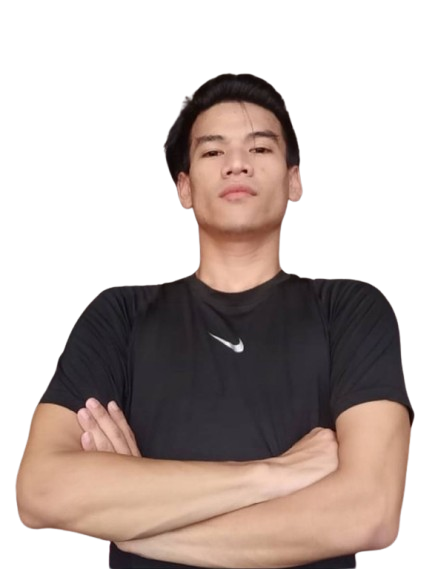
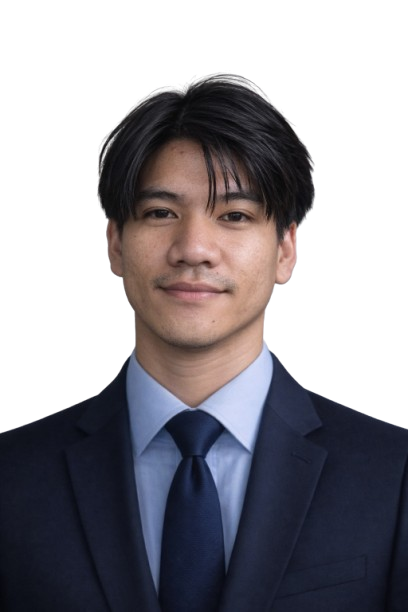
image update

diff --git a/index.html b/index.html
@@ -43,6 +43,61 @@
       name="twitter:image"
       content="https://alsharieff.github.io/portfolio/portfolio-img.jpg"
     />
+
+    <script type="application/ld+json">
+      {
+        "@context": "https://schema.org",
+        "@type": "Person",
+        "name": "Alsharieff Kallun",
+        "url": "https://alsharieff.github.io/portfolio/",
+        "image": "https://alsharieff.github.io/portfolio/portfolio-img.jpg",
+        "jobTitle": "Frontend Developer & SEO Specialist",
+        "description": "SEO specialist portfolio showcasing expertise in website optimization, keyword strategy, and high-performance, search-friendly sites.",
+        "sameAs": [
+          "https://www.linkedin.com/in/al-sharieff-kallun-09b829142?utm_source=share&utm_campaign=share_via&utm_content=profile&utm_medium=ios_app",
+          "https://github.com/alsharieff",
+          "https://www.facebook.com/share/1Ahgb1wdZu/?mibextid=wwXIfr"
+        ],
+        "knowsAbout": [
+          "SEO On-page",
+          "SEO Off-page",
+          "Technical SEO",
+          "HTML",
+          "CSS",
+          "Tailwind CSS",
+          "Bootstrap",
+          "JavaScript",
+          "Link Building",
+          "Ahrefs",
+          "Google Search Console"
+        ],
+        "worksFor": {
+          "@type": "Organization",
+          "name": "Self-employed / Freelance",
+          "url": "https://alsharieff.github.io/portfolio/"
+        },
+        "mainEntityOfPage": {
+          "@type": "WebPage",
+          "@id": "https://alsharieff.github.io/portfolio/"
+        },
+        "hasPart": [
+          {
+            "@type": "CreativeWork",
+            "name": "SEO Career Blog",
+            "url": "https://alsharieff.github.io/portfolio/project-seo-blog",
+            "image": "https://alsharieff.github.io/portfolio/portfolio-img-seo-blog.jpg",
+            "description": "Career blog optimized with technical SEO and fast performance, built using React and Tailwind CSS."
+          },
+          {
+            "@type": "CreativeWork",
+            "name": "The Sports Odds News Blog",
+            "url": "https://alsharieff.github.io/portfolio/project-sports-odds",
+            "image": "https://alsharieff.github.io/portfolio/portfolio-img-sports-odds.jpg",
+            "description": "A news blog focused on sports odds, fully SEO-optimized and responsive with React and modern UI."
+          }
+        ]
+      }
+    </script>
   </head>
   <body>
     <div id="root"></div>

diff --git a/src/Hero.jsx b/src/Hero.jsx
@@ -16,7 +16,7 @@ function Hero() {
       <div className="mx-auto px-4 max-w-[960px] flex flex-row items-center gap-4 md:gap-8">
         {/* Left: Profile Image (30%) */}
         <div className="w-[30%] flex justify-center">
-          <div className="w-24 h-24 sm:w-32 sm:h-32 md:w-60 md:h-60 rounded-3xl overflow-hidden">
+          <div className="w-24 h-36 sm:w-32 sm:h-42 md:w-60 md:h-80 rounded-3xl overflow-hidden">
             <img
               src={picture}
               alt="Alsharieff Kallun"
